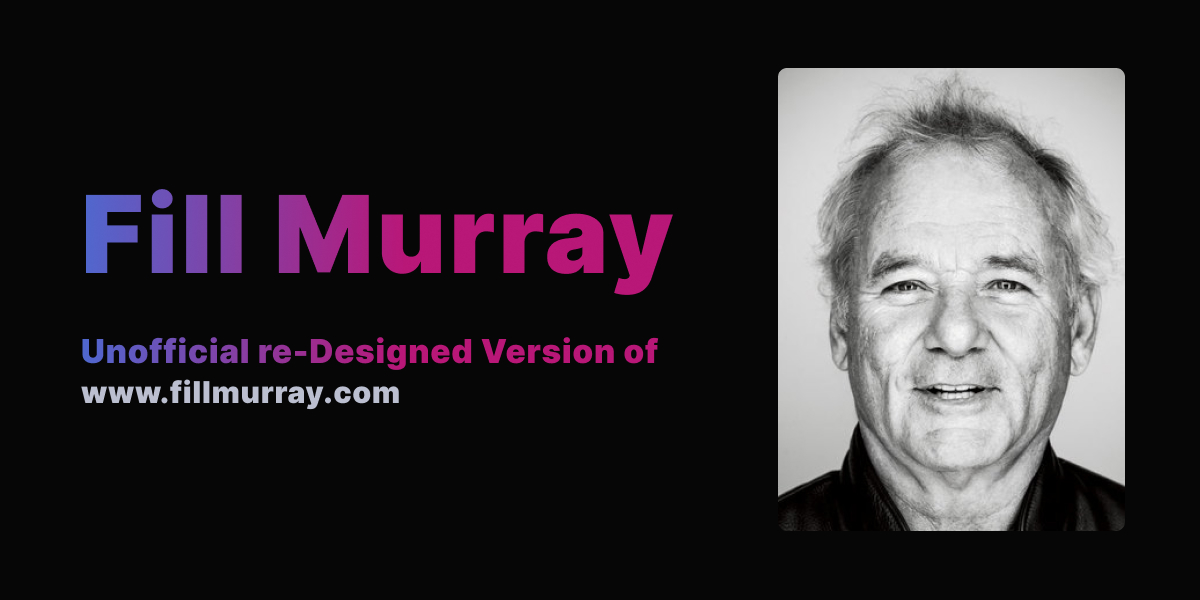
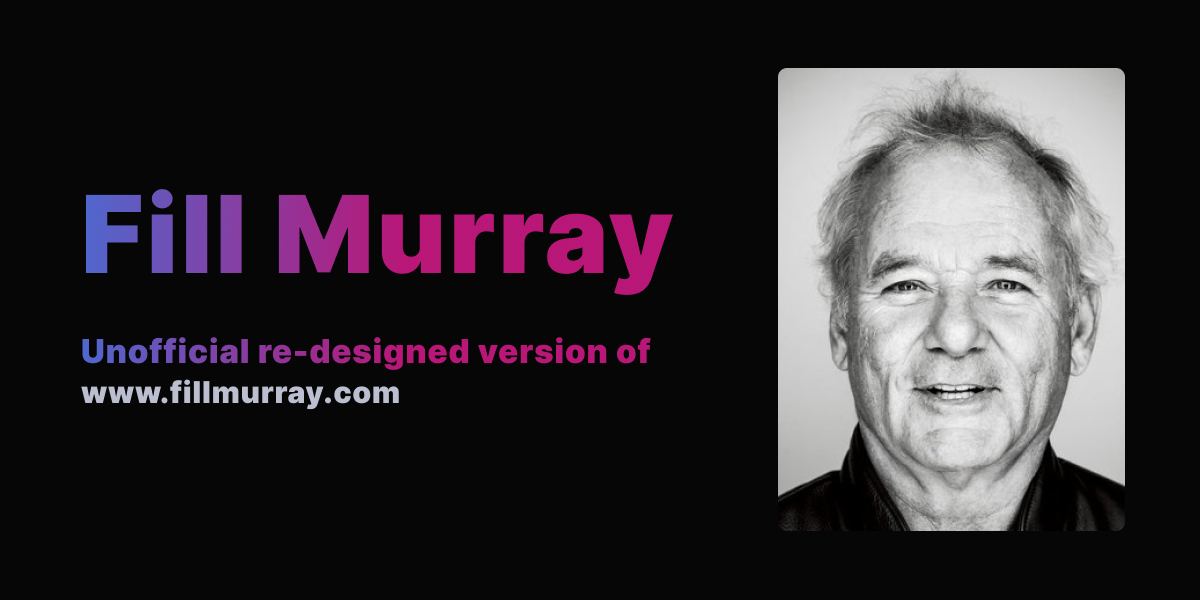
Updated URL

Changed region(s): [[0.2467, 0.57, 0.555, 0.63]]

diff --git a/pages/index.js b/pages/index.js
@@ -5,30 +5,28 @@ import Warning from "../pages/components/warning";
 
 export default function Home() {
   const Title = "Fill Murray ";
-  const subTitle =
-    "Unofficial re-Designed Version of";
-    const fillmurray =
-    "www.fillmurray.com";
+  const subTitle = "Unofficial re-designed version of";
   const [width, setWidth] = useState(300);
   const [heigth, setHeigth] = useState(400);
   const cardImage = "/card.jpg";
-  const domain = "";
-  const fillmurrayURL = 'https://www.fillmurray.com'
+  const domain = "https://fillmurray.vercel.app/";
+  const fillmurrayURL = "https://www.fillmurray.com";
+  const fillMurray = "www.fillmurray.com";
   const uri = `${fillmurrayURL}/${width}/${heigth}`;
-  const generateRandomNumber = () => {
+  const shuffle = () => {
     var randomNumber = Math.floor(Math.random() * 400) + 1;
     setWidth(randomNumber);
   };
   return (
     <>
       <Head>
-        <title>{Title}</title>
+        <title>{`${Title} | ${subTitle} ${fillMurray}`}</title>
         <link rel="icon" href="/favicon.ico" />
         <meta property="og:url" content={domain} />
         <meta property="og:image" content={cardImage} />
         <meta name="twitter:card" content="summary_large_image" />
         <meta name="twitter:creator" content="@raufsamestone" />
-        <meta name="twitter:title" content={Title} />
+        <meta name="twitter:title" content={Title + subTitle + fillMurray} />
         <meta name="twitter:description" content={subTitle} />
         <meta name="twitter:image" content={cardImage} />
       </Head>
@@ -36,7 +34,10 @@ export default function Home() {
         {Title}
       </h1>
       <h2 className="font-sans font-black text-center text-xl title">
-        {subTitle}
+        {subTitle}{" "}
+        <span className="font-sans font-black text-center text-xl text-white">
+          {fillMurray}
+        </span>
       </h2>
       <div className={styles.container}>
         <main className={styles.main}>
@@ -64,9 +65,9 @@ export default function Home() {
             </span>
             <br />
             <button
-              title="Generate Random Number"
+              title="Generate Random Size"
               className="bg-gray-300 mt-5 hover:bg-gray-400 text-gray-800 font-bold py-2 px-4 rounded inline-flex items-center w-auto"
-              onClick={generateRandomNumber}
+              onClick={shuffle}
             >
               Random 🎲
             </button>

diff --git a/README.md b/README.md
@@ -1,8 +1,13 @@
 # Fill Murray (unofficial re-design)
-Build it in **17 min** 😀 with Next.JS and Tailwind CSS.
+- Build it in **17 min** 😀 
+- Used Next.JS and Tailwind CSS.
 
 ## Originally
 https://www.fillmurray.com/
+
+## Demo
+
+https://fillmurray.vercel.app/
 
 ![SS](public/card.jpg)
 
